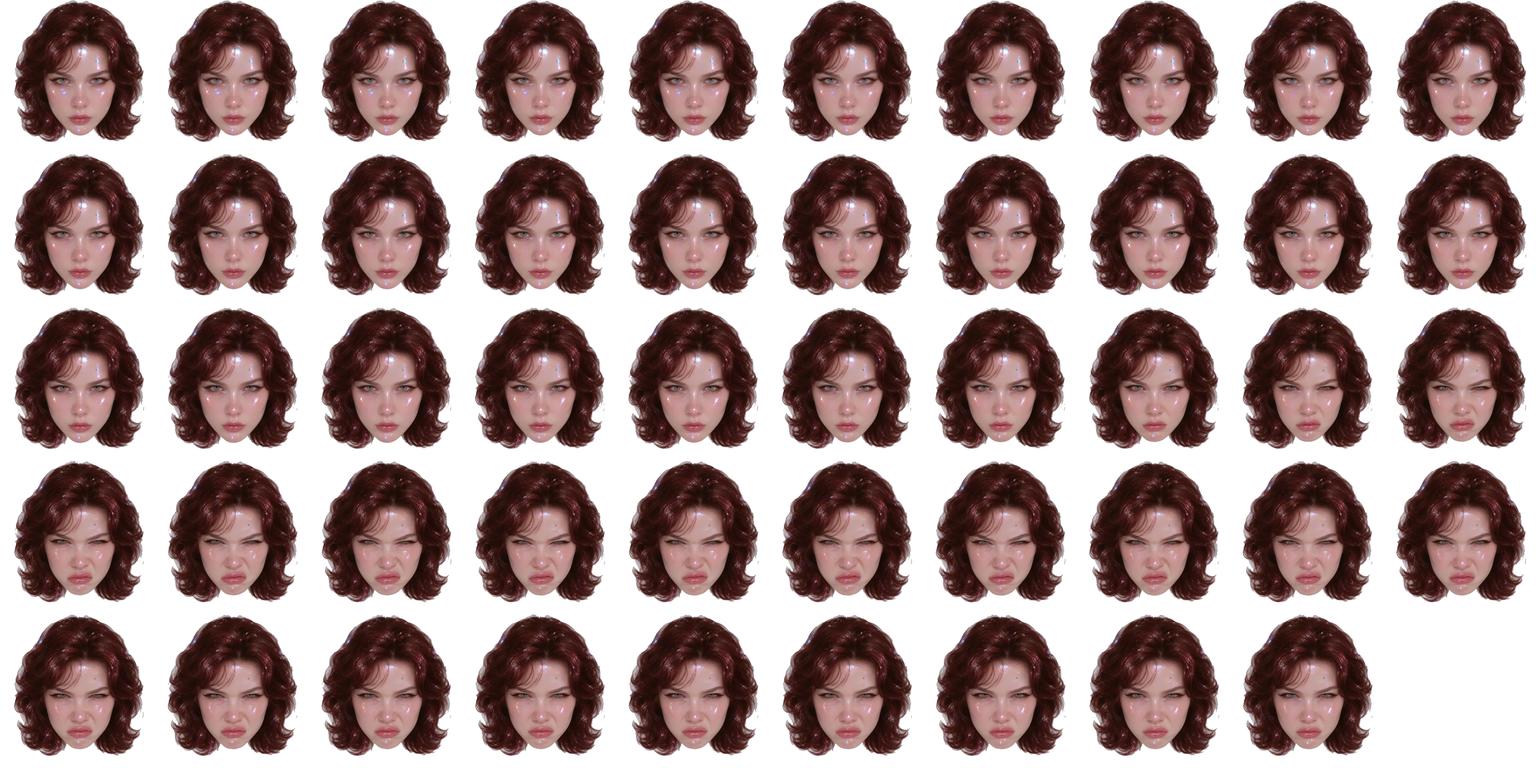
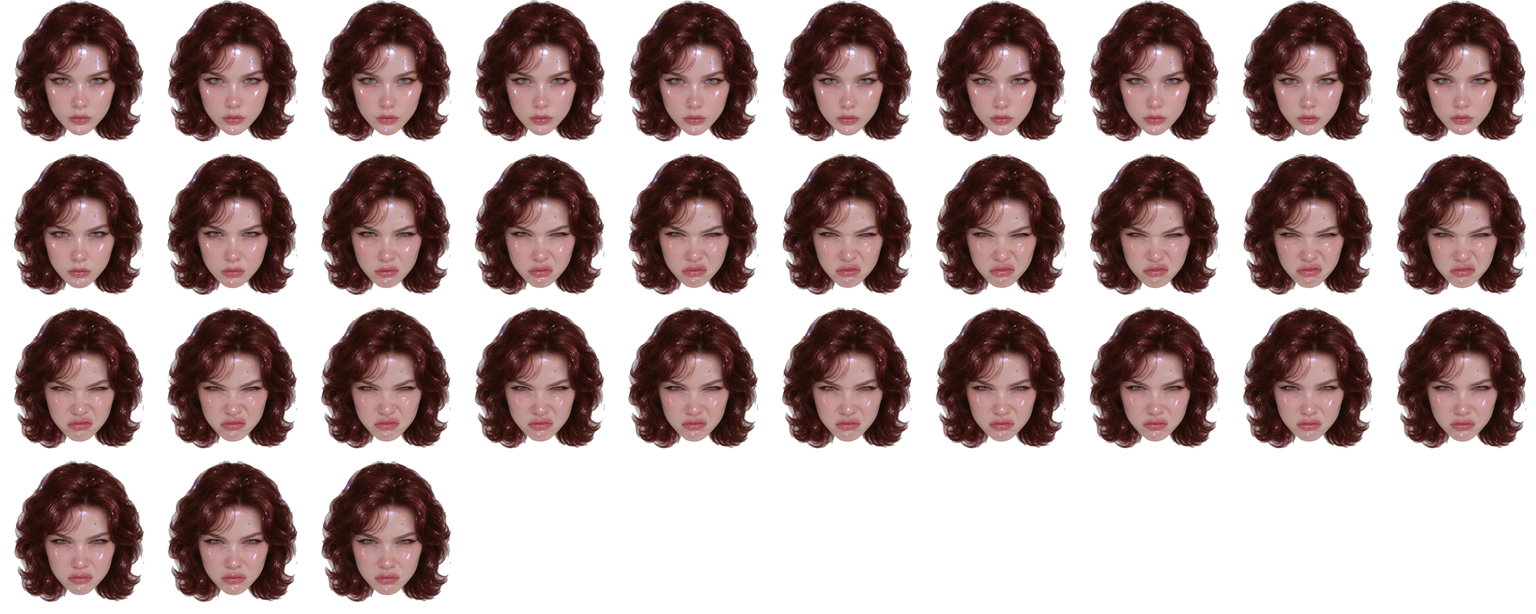
Trim the calm opening off the pout clip
Claude-Session: https://claude.ai/code/session_013VWYto3vodYce8HmJyEe1r

diff --git a/js/script.js b/js/script.js
@@ -999,9 +999,9 @@
   });
 
   registerEmotion("pout", {
-    // 4 s clip: neutral, then a scrunched-up pout; plays when you poke her face
-    src: "assets/face-pout.webp", size: 420, cols: 10, frames: 49, fps: 12,
-    still: 40, stillFor: 1500, cooldown: 1500, fadeIn: 120, fadeOut: 420, settle: false
+    // pout clip, calm opening trimmed off (starts as the scrunch builds); plays when you poke her face
+    src: "assets/face-pout.webp", size: 420, cols: 10, frames: 33, fps: 12,
+    still: 21, stillFor: 1500, cooldown: 1500, fadeIn: 120, fadeOut: 420, settle: false
   });
 
   // trigger: hover a project card for 2 s; once per hover
